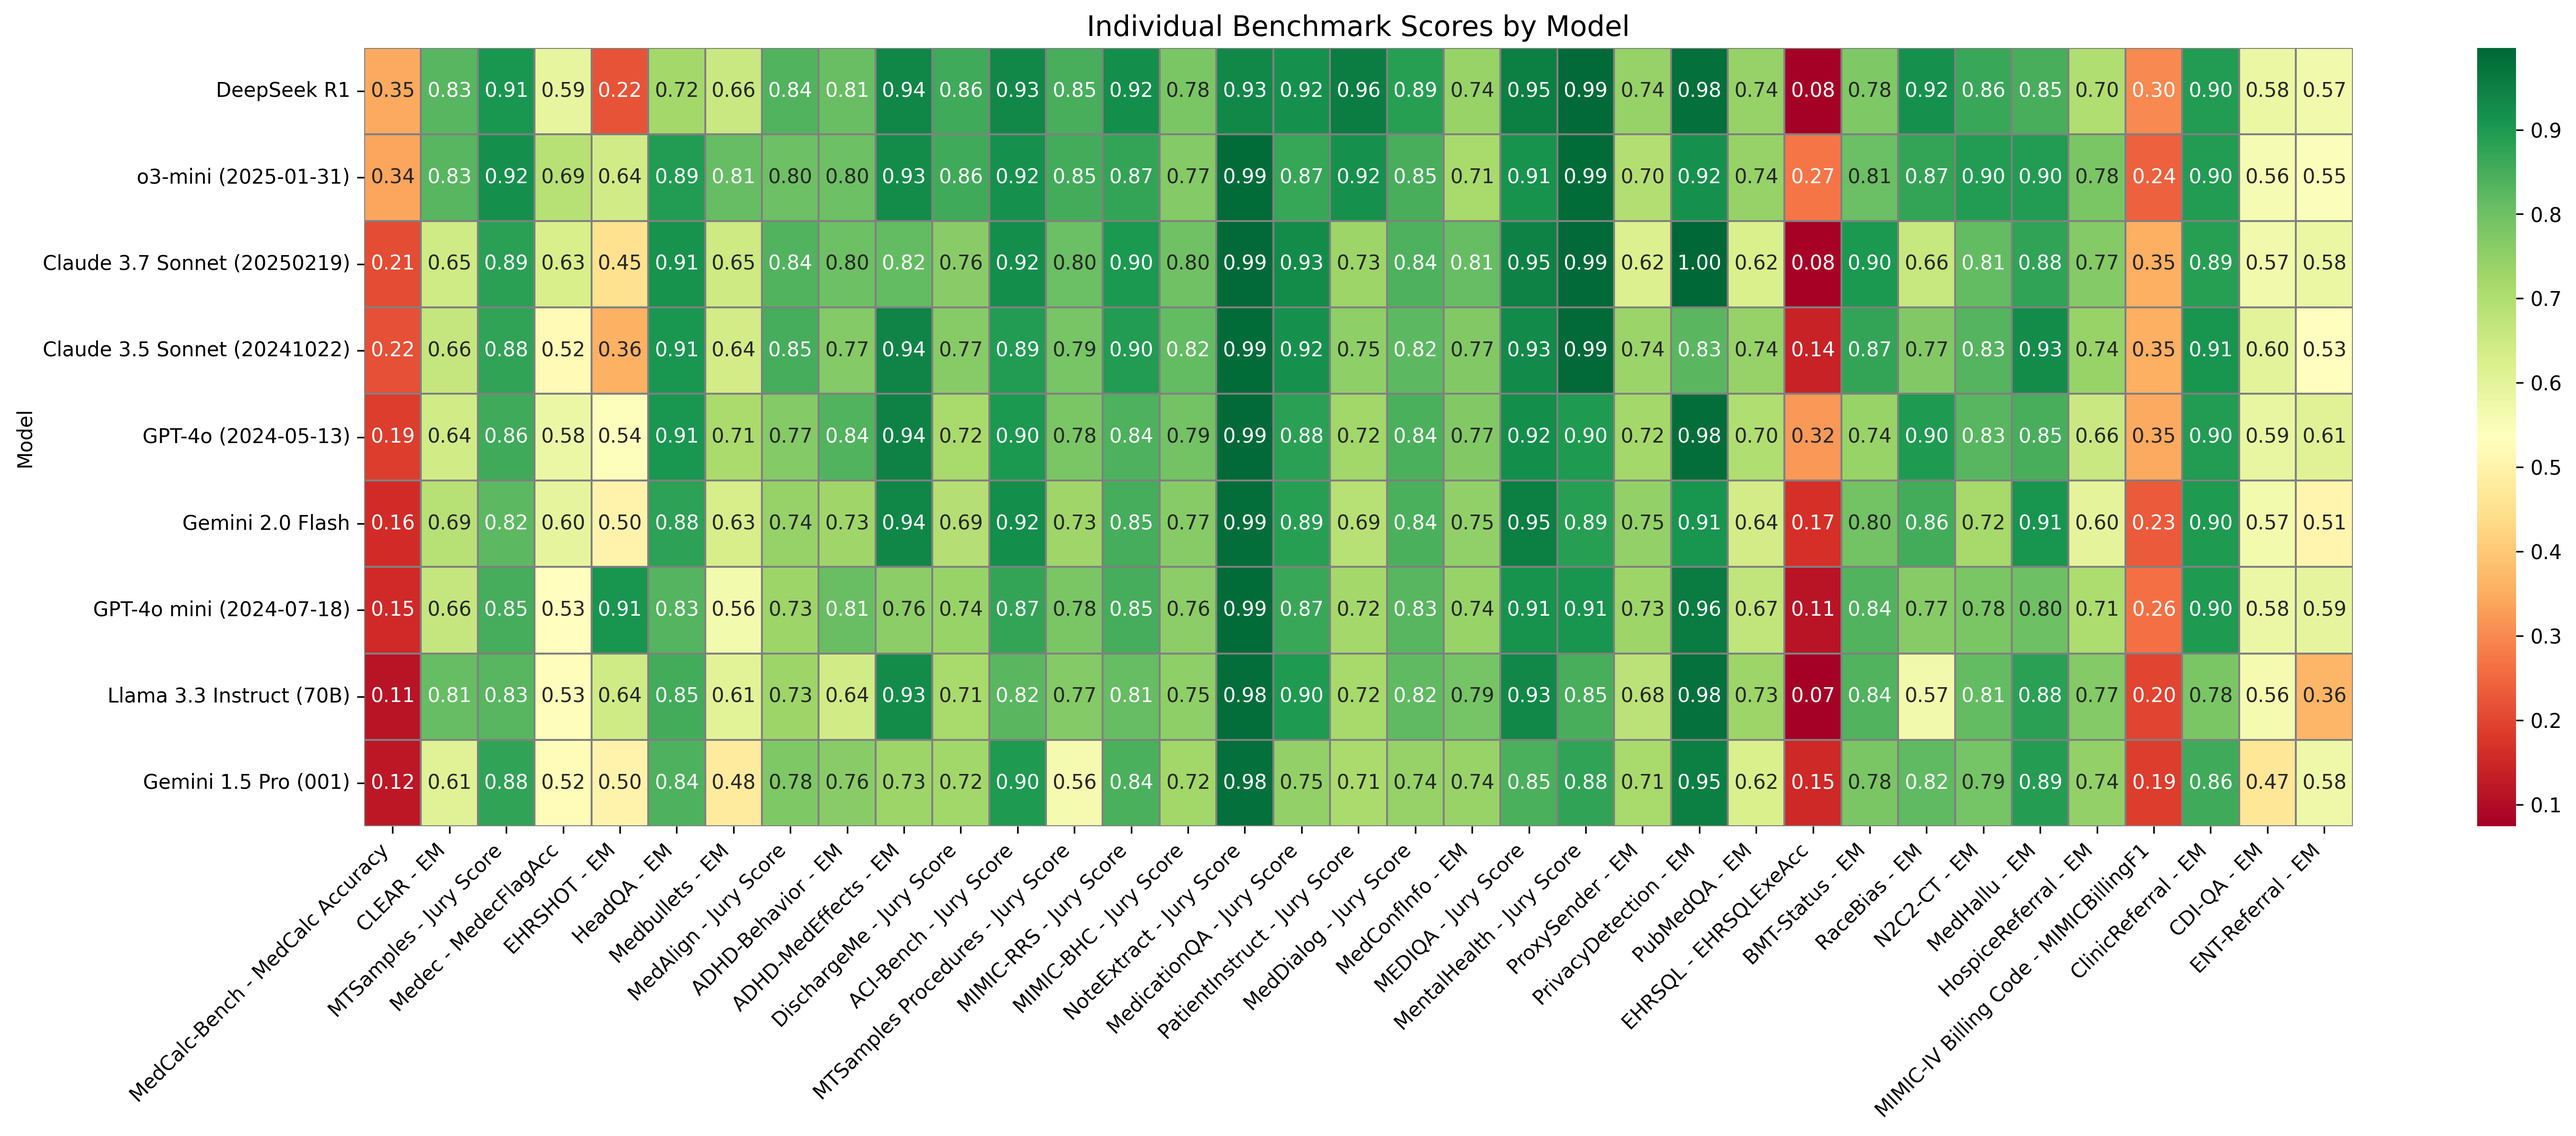
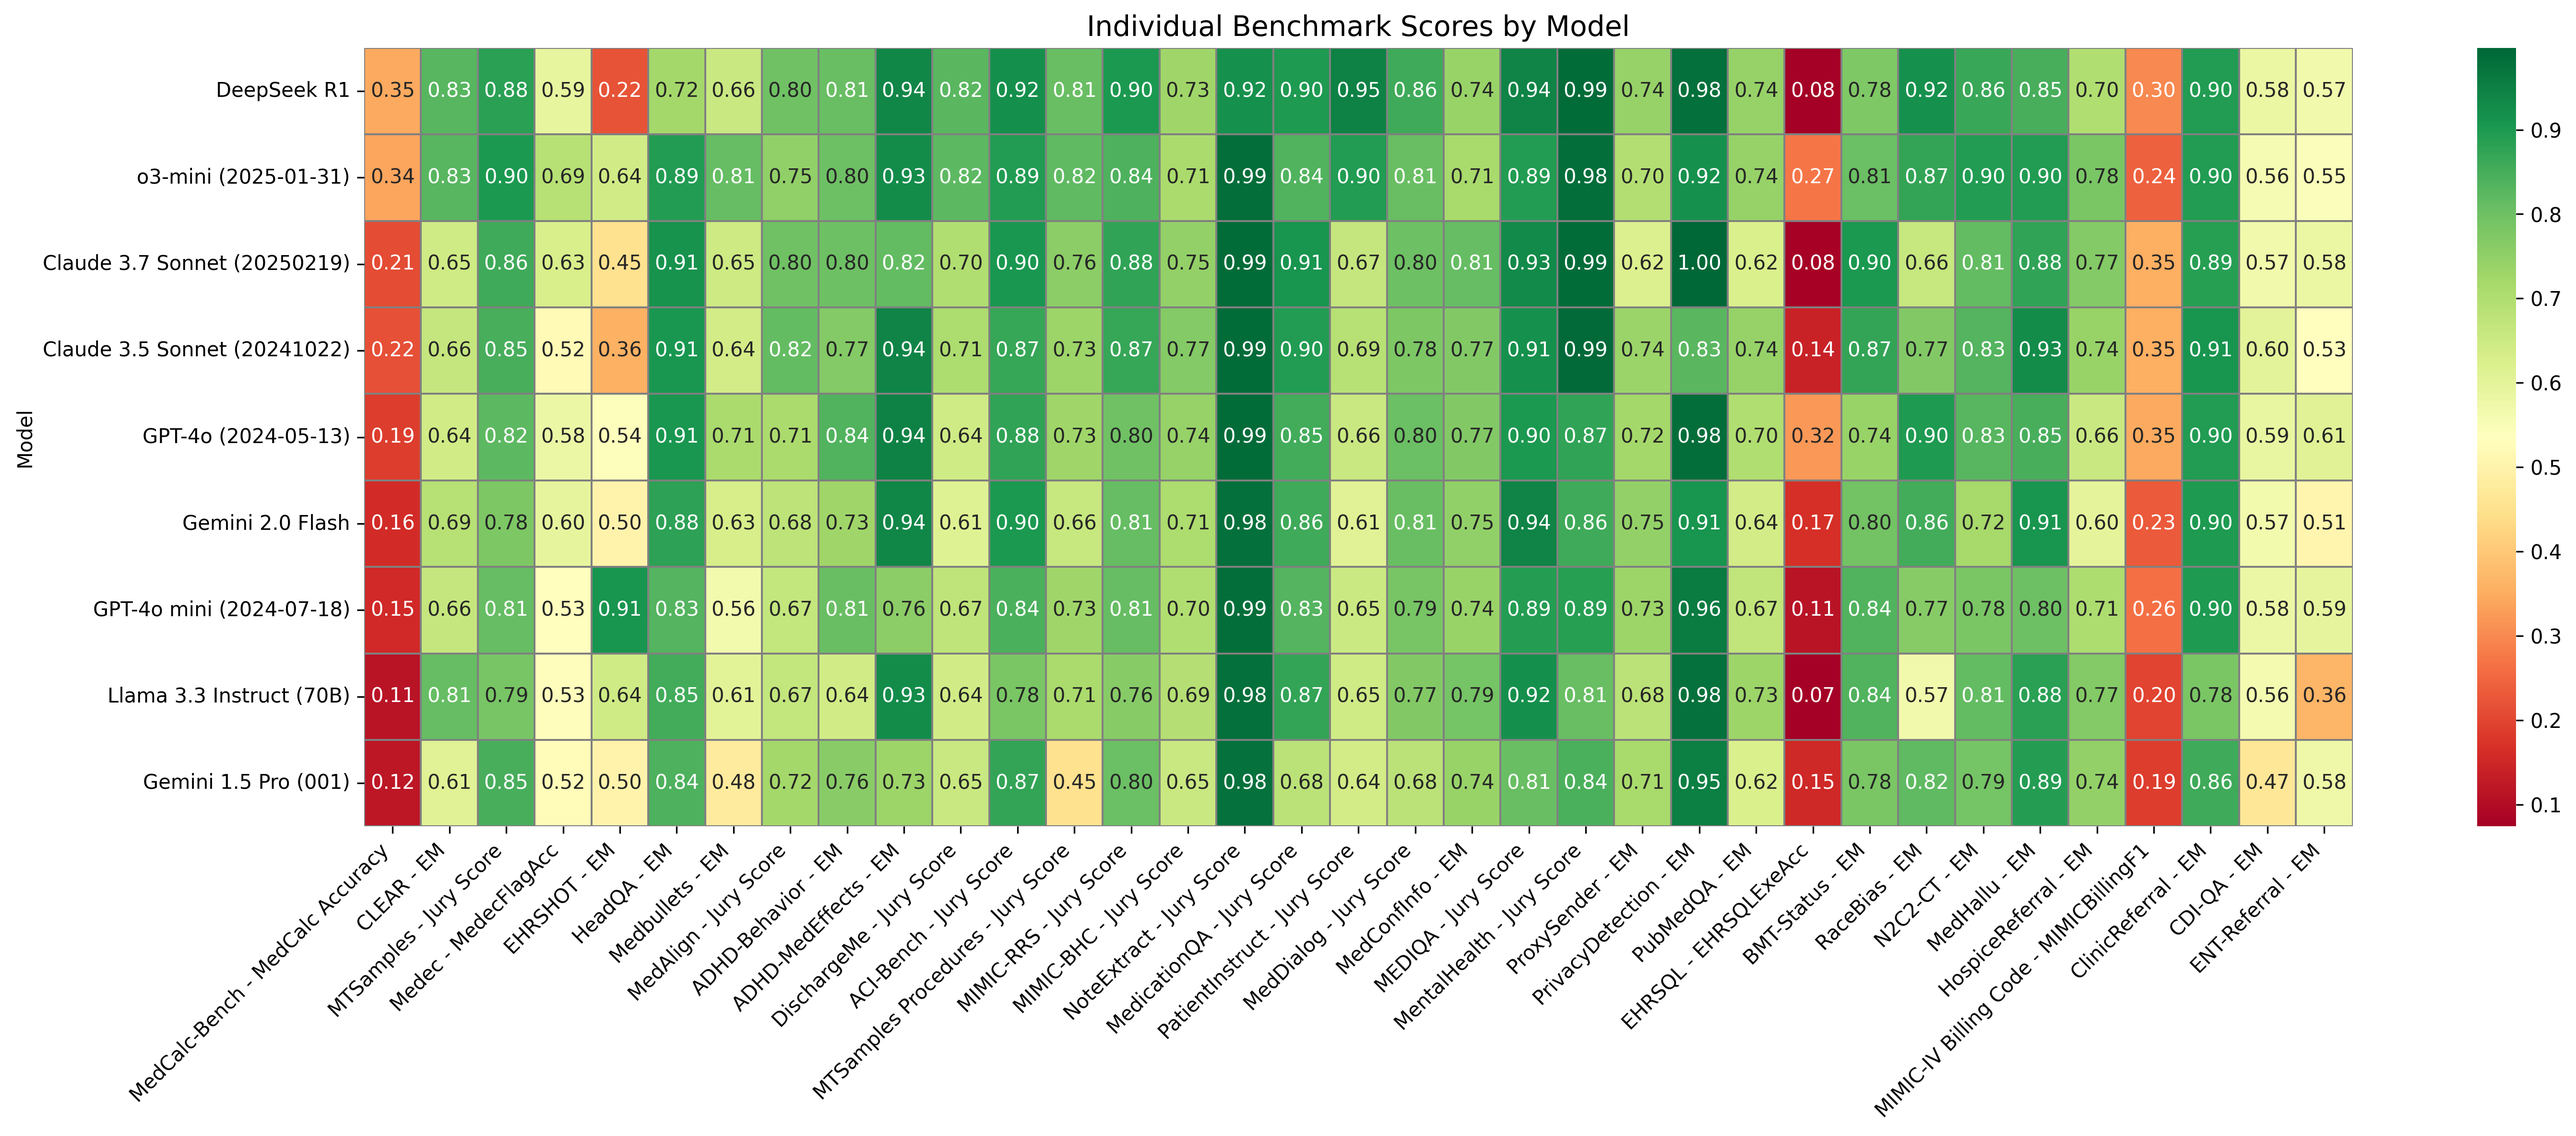
Fixed normalization

Changed region(s): [[0.2799, 0.0312, 0.6532, 0.7497], [0.1866, 0.3436, 0.2177, 0.656]]

diff --git a/src/medhelm/plots/plot_category_heatmap.py b/src/medhelm/plots/plot_category_heatmap.py
@@ -63,10 +63,7 @@ for _, display, cat in METRIC_INFO:
 def normalize_scores(df, metric_cols):
     for col in metric_cols:
         if df[col].max() > 1:
-            df[col] = df[col] / 5.0
-
-            # df[col] = (df[col] -1) / (5.0 - 1)
-            # df[col] = (df[col] -1) / (5.0 - 1)
+            df[col] = (df[col] -1.0) / (5.0 - 1.0)
     return df
 
 
